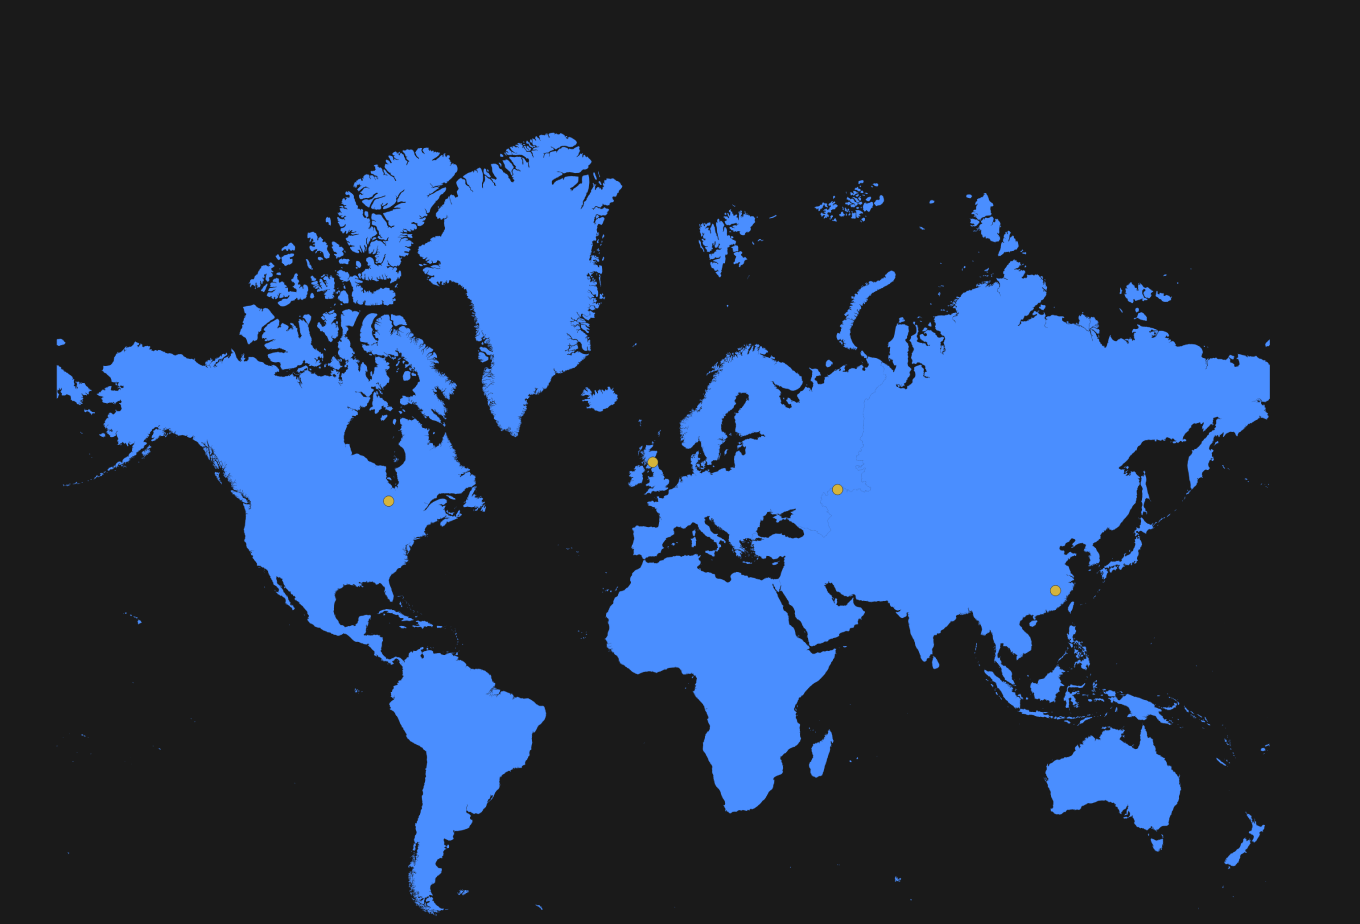
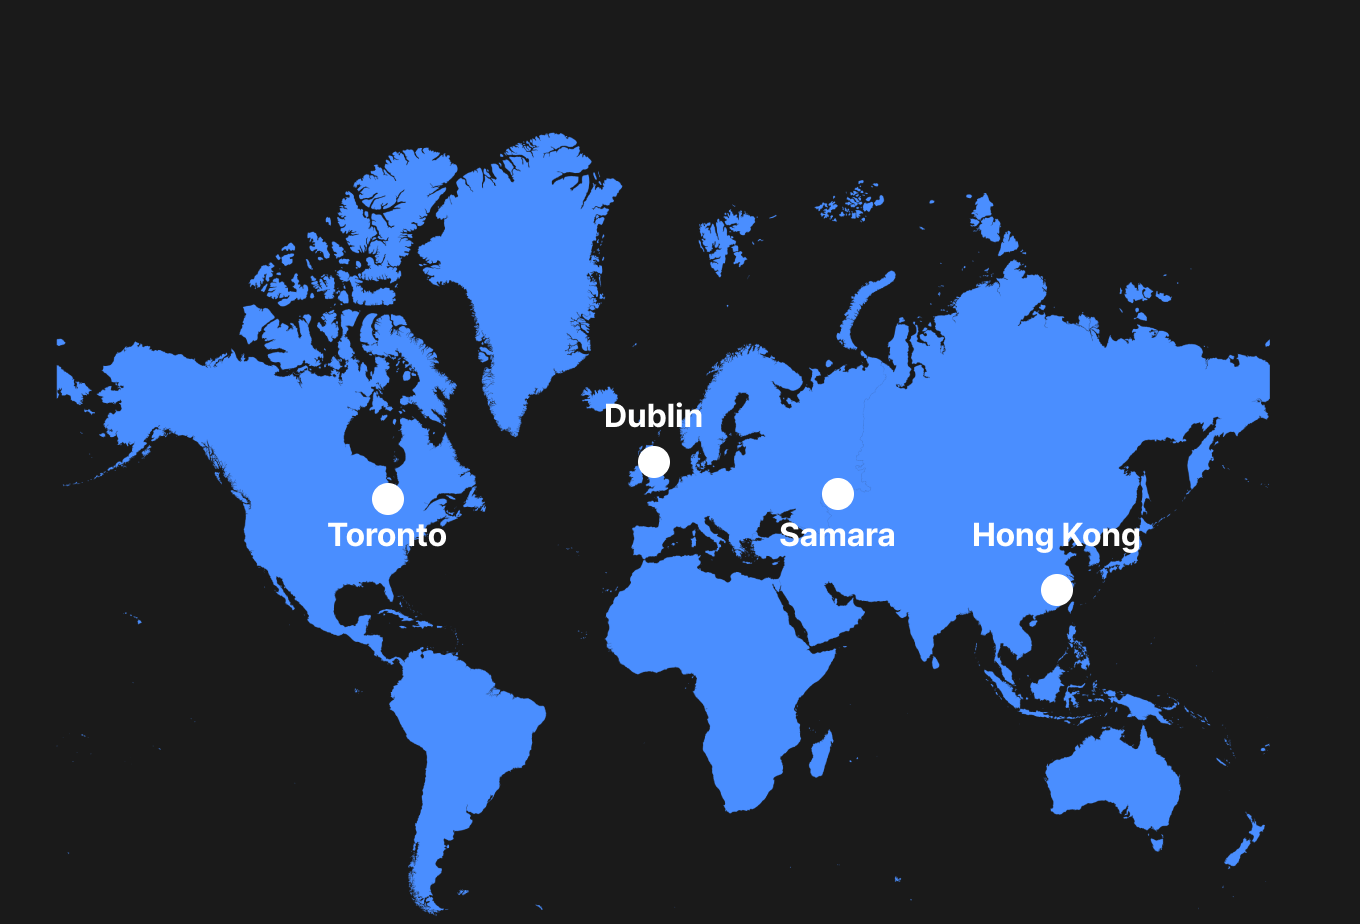
fix: replace map

diff --git a/src/sections/Offices/Offices.js b/src/sections/Offices/Offices.js
@@ -1,15 +1,5 @@
 import Image from "next/image";
-import {
-  Section,
-  OfficesTitle,
-  OfficesCircle,
-  OfficesImageContainer,
-  OfficesTorontoContainer,
-  OfficesPlaceTitle,
-  OfficesDublinContainer,
-  OfficesSamaraContainer,
-  OfficesHongKongContainer,
-} from "./Offices.styles";
+import { Section } from "./Offices.styles";
 import Title from "../../components/Title/Title.js";
 
 import map from "../../../public/images/offices/offices.png";
@@ -18,29 +8,7 @@ function Offices() {
   return (
     <Section>
       <Title>Our offices</Title>
-      <OfficesImageContainer>
-        <Image src={map} />
-
-        <OfficesTorontoContainer>
-          <OfficesCircle />
-          <OfficesPlaceTitle>Toronto</OfficesPlaceTitle>
-        </OfficesTorontoContainer>
-
-        <OfficesDublinContainer>
-          <OfficesPlaceTitle>Dublin</OfficesPlaceTitle>
-          <OfficesCircle />
-        </OfficesDublinContainer>
-
-        <OfficesSamaraContainer>
-          <OfficesCircle />
-          <OfficesPlaceTitle>Samara</OfficesPlaceTitle>
-        </OfficesSamaraContainer>
-
-        <OfficesHongKongContainer>
-          <OfficesPlaceTitle>Hong Kong</OfficesPlaceTitle>
-          <OfficesCircle />
-        </OfficesHongKongContainer>
-      </OfficesImageContainer>
+      <Image src={map} />
     </Section>
   );
 }

diff --git a/src/sections/Offices/Offices.styles.js b/src/sections/Offices/Offices.styles.js
@@ -3,10 +3,6 @@ import OGSection from "../../components/Section/Section.js";
 
 export const Section = styled(OGSection)`
   margin-bottom: 200px;
-
-  img {
-    z-index: 1;
-  }
 `;
 
 export const OfficesTitle = styled.h2`
